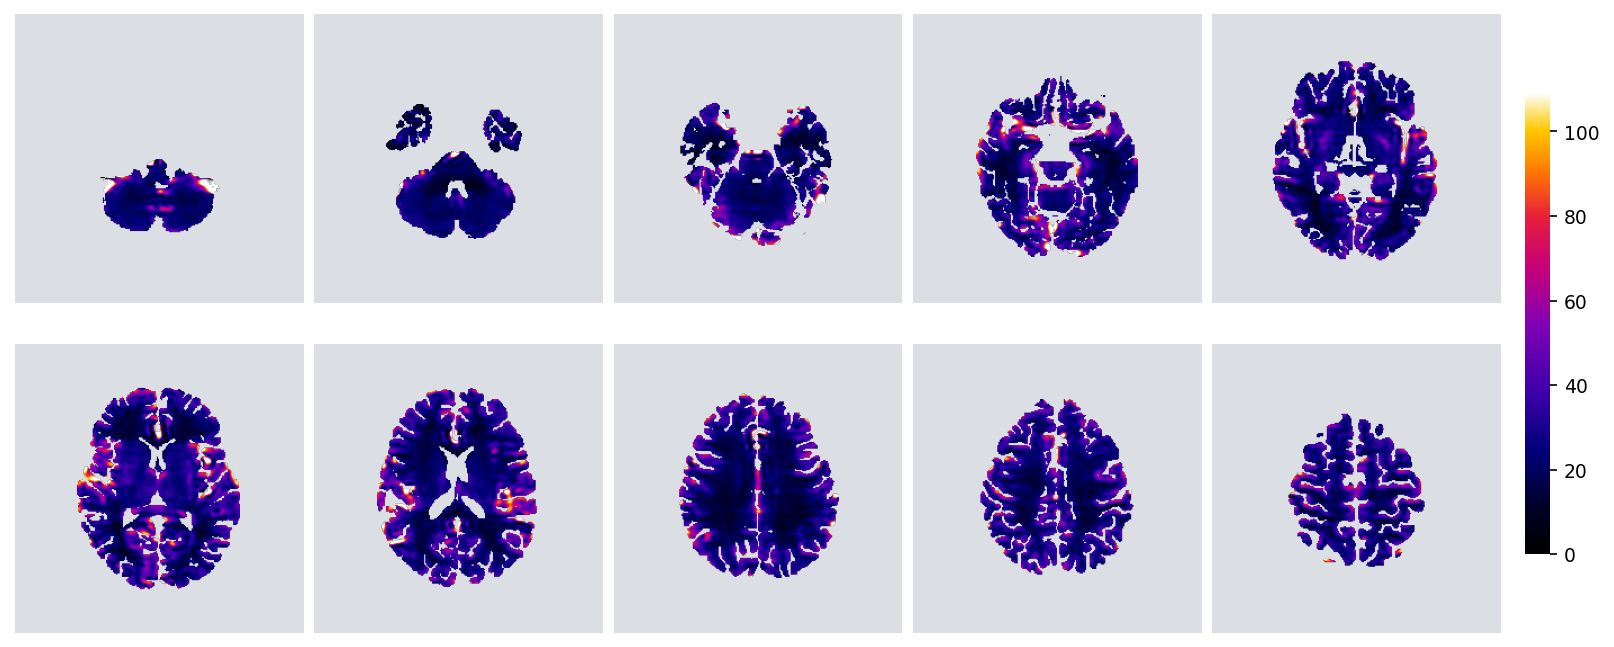
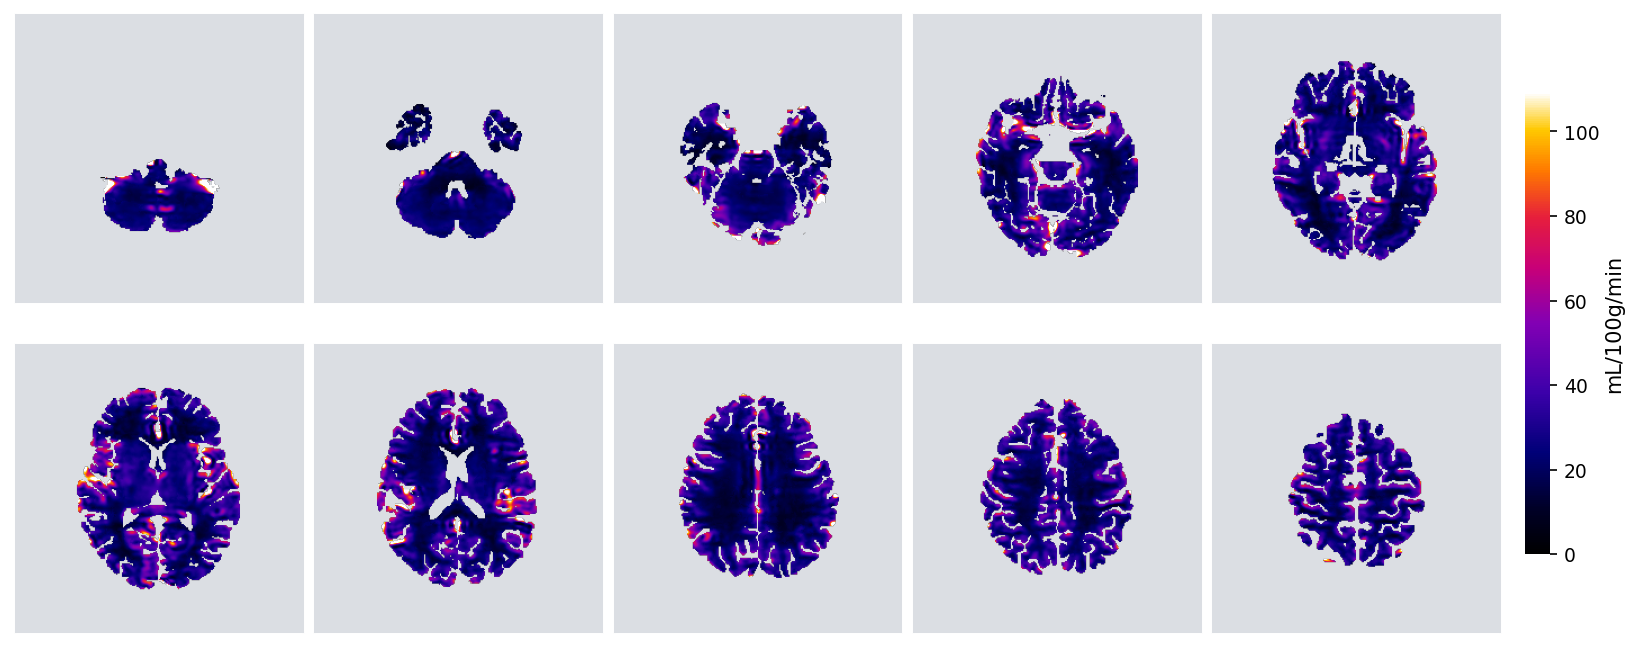
updated images

Changed region(s): [[0.1859, 0.0, 0.9913, 0.9892], [0.031, 0.5873, 0.1549, 0.9274], [0.062, 0.2473, 0.1549, 0.3709]]

diff --git a/pbrain/tissue_roi/synthseg.py b/pbrain/tissue_roi/synthseg.py
@@ -13,6 +13,7 @@ the standard FreeSurfer labelmap.
 
 from __future__ import annotations
 
+import os
 import shutil
 import subprocess
 from dataclasses import dataclass
@@ -94,6 +95,16 @@ class _SynthSegTissue:
                 "`source $FREESURFER_HOME/SetUpFreeSurfer.sh`."
             )
 
+        # mri_synthseg needs FREESURFER_HOME set. Auto-derive it from the
+        # binary location (…/<FREESURFER_HOME>/bin/mri_synthseg) when the env
+        # isn't already sourced, so a fresh shell just works.
+        env = dict(os.environ)
+        if not env.get("FREESURFER_HOME"):
+            fs_home = Path(binary).resolve().parent.parent
+            if (fs_home / "SetUpFreeSurfer.sh").exists():
+                env["FREESURFER_HOME"] = str(fs_home)
+                env.setdefault("SUBJECTS_DIR", str(fs_home / "subjects"))
+
         out_dir = Path(out_dir)
         out_dir.mkdir(parents=True, exist_ok=True)
 
@@ -107,7 +118,7 @@ class _SynthSegTissue:
         if not robust:
             cmd.append("--fast")
 
-        result = subprocess.run(cmd, capture_output=True, text=True, timeout=1800)
+        result = subprocess.run(cmd, capture_output=True, text=True, timeout=1800, env=env)
         if result.returncode != 0:
             raise RuntimeError(
                 f"mri_synthseg failed: "

diff --git a/pbrain/cli/cohort.py b/pbrain/cli/cohort.py
@@ -34,6 +34,8 @@ def _build_parser() -> argparse.ArgumentParser:
                    help="Shared config file (.toml/.yaml). Per-subject inputs "
                         "are resolved relative to each subject directory.")
     g = p.add_mutually_exclusive_group(required=True)
+    g.add_argument("--data-dir", help="Run every immediate sub-directory of this "
+                                      "folder as a subject (the simplest 'do all of them').")
     g.add_argument("--subjects-glob", help="Glob of subject directories, e.g. '/data/sub-*'.")
     g.add_argument("--subjects", nargs="+", help="Explicit subject directories.")
     p.add_argument("--workers", type=int, default=1,
@@ -82,7 +84,11 @@ def main(argv: list[str]) -> int:
     configure_logging(level_from_flags(args.quiet, args.verbose), log_file=args.log_file)
     log = get_logger("cohort")
 
-    if args.subjects_glob:
+    if args.data_dir:
+        root = Path(args.data_dir)
+        subjects = sorted(str(p) for p in root.iterdir()
+                          if p.is_dir() and not p.name.startswith("."))
+    elif args.subjects_glob:
         import glob
         subjects = sorted(p for p in glob.glob(args.subjects_glob) if Path(p).is_dir())
     else:

diff --git a/pbrain/diagnostics/montage.py b/pbrain/diagnostics/montage.py
@@ -141,12 +141,14 @@ def montage_volume(arr: np.ndarray, out_path: Path, *, mask: np.ndarray | None =
             ax.axis("off")                         # absent slice → blank tile
 
     if title:
-        fig.suptitle(title + (f"  [{units}]" if units else ""), fontsize=12)
+        fig.suptitle(title, fontsize=12)
     if im is not None:
         cax = fig.add_axes([0.925, 0.15, 0.015, 0.7])
         cb = fig.colorbar(im, cax=cax)
         cb.outline.set_visible(False)
         cb.ax.tick_params(labelsize=9)
+        if units and units not in ("(unitless)", "RGB"):   # real units only
+            cb.set_label(units, fontsize=10, rotation=90, labelpad=2)
 
     out_path = Path(out_path)
     out_path.parent.mkdir(parents=True, exist_ok=True)

diff --git a/README.md b/README.md
@@ -2,20 +2,24 @@
 
 <img width="2500" height="549" alt="pbrainplatform_banner" src="https://github.com/user-attachments/assets/e0c55c26-5c31-468f-9380-3b045e3a495c" />
 
-**_p_-Brain is a framework for automated DCE-MRI (and diffusion) research that
-research groups extend with their own models.** It takes raw scanner data
-through every step — T1/M0 mapping, arterial-input-function extraction,
+_p_-Brain takes raw dynamic-contrast-enhanced (and diffusion) MRI through the
+whole analysis — T1/M0 mapping, arterial-input-function extraction,
 signal-to-concentration conversion, tissue parcellation, pharmacokinetic and
-diffusion modelling — and emits standardised voxel / tissue / parcel outputs,
-fully automatically.
+diffusion modelling — and produces standardised voxel-, tissue-, and
+parcel-level results, fully automatically.
 
-The point is not just the models we ship. It is that **your own model is a
-single file.** Drop it into `pbrain/models/`, call it by name with `--models
-yourmodel`, and the framework runs it on every subject, aggregates it to every
-anatomical level, writes NIfTI/CSV/JSON, and renders diagnostics — with **no
-changes to the core**. The same is true for a new AIF method, segmentation
-backend, or whole pipeline stage. The aim is to let the field stop
-re-implementing plumbing and standardise on shared, comparable outputs.
+It is two things at once. **As shipped it is a validated, ready-to-run
+pipeline** you can point at real scanner data today and get publication-grade
+maps (Ki, CBF, MTT, CTH, FA, …). And it is a **template you extend**: each step
+is a self-contained plug-in, so adding your own kinetic model — or a different
+AIF, segmentation backend, or whole stage — is a single file and **no changes
+to the core**. Drop a model into `pbrain/models/`, call it with `--models
+yourmodel`, and it is run on every subject, aggregated to every anatomical
+level, written as NIfTI/CSV/JSON, and given diagnostics automatically.
+
+The aim is to let groups stop re-implementing the same plumbing: use it as-is,
+modify what you need, and extend it to go beyond — while everyone's outputs
+stay directly comparable.
 
 > If you use _p_-Brain in your research, please **cite our paper** (Tireli et
 > al.; see [Citation](#citation)).
@@ -149,6 +153,10 @@ python -m pbrain list models      # one plug-point in detail
 **Run a whole cohort** — parallel, resumable, error-isolated:
 
 ```bash
+# the simplest form: run every subject folder inside a directory
+python -m pbrain run-cohort --config study.toml --data-dir /data --workers 8
+
+# or select with a glob / explicit list
 python -m pbrain run-cohort --config study.toml --subjects-glob '/data/sub-*' --workers 8
 ```
 
@@ -160,11 +168,13 @@ under [Models](#models).
 
 ## Add your own
 
-**This is the feature.** A new kinetic model — a whole new way of turning the
-concentration curves into parameter maps — is **one file** and **zero core
-changes**. You write the maths; the framework does everything else: it runs
-your model on every voxel/curve, aggregates the result to tissue classes and
-parcels, writes NIfTI + CSV + JSON, and renders fit diagnostics.
+> **Step-by-step guide:** [`docs/ADDING_PLUGINS.md`](docs/ADDING_PLUGINS.md) —
+> templates for models, AIF methods, segmentation backends, diffusion models,
+> and whole pipeline stages. Start there.
+
+A new kinetic model is one file and no core changes. You write the maths; the
+framework runs it on every voxel/curve, aggregates the result to tissue classes
+and parcels, writes NIfTI + CSV + JSON, and renders fit diagnostics.
 
 `pbrain/models/two_cxm.py`:
 
